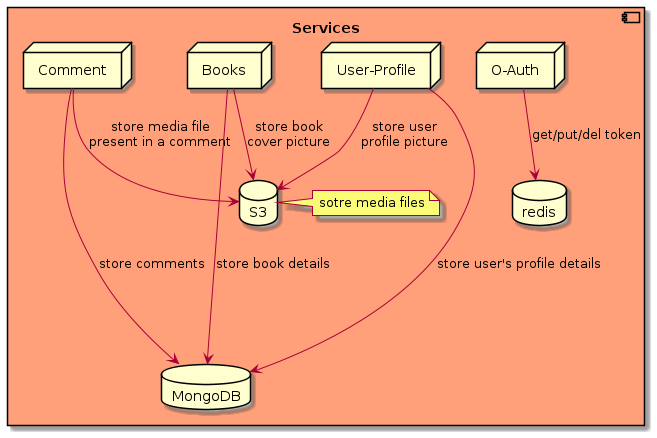
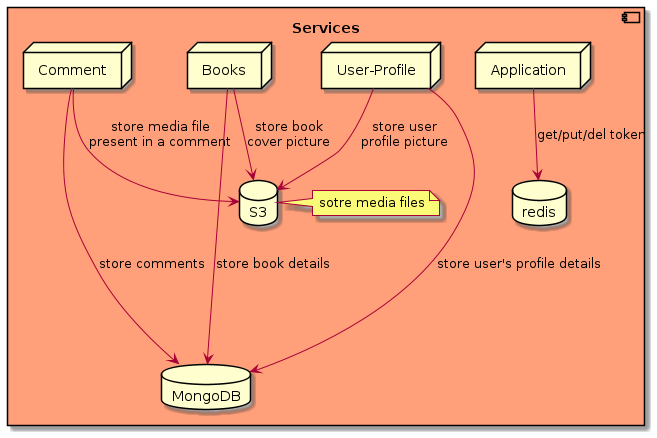
docs(project): removed o-auth service

Changed region(s): [[0.7002, 0.089, 0.9132, 0.2374], [0.7915, 0.2078, 0.9741, 0.4155]]

diff --git a/README.md b/README.md
@@ -5,7 +5,6 @@ A platform allowing college student to share hard copy of book among themselves.
 - [book-labs](#book-labs)
   - [Services](#services)
     - [Application](#application)
-    - [O-Auth](#o-auth)
     - [User-Profile](#user-profile)
     - [Comment](#comment)
     - [Books](#books)
@@ -23,11 +22,7 @@ This application uses a micro-service architecture, with one service [Applicatio
 ![deployment](docs/img/deployment.png)
 ### Application
 
-Services responsible for routing, user's client to the respective service. This service exposes REST Endpoint which will be consumed by the front-end. Further routing of request to the various services done through gRPC connections.
-
-### O-Auth
-
-Service responsible for authenticating user's request to the book-sharing application.
+Services responsible for routing, user's client to the respective service. This service exposes REST Endpoint which will be consumed by the front-end. Further routing of request to the various services done through gRPC connections.Service also responsible for authenticating user's request to the book-sharing application.
 
 ### User-Profile
 
